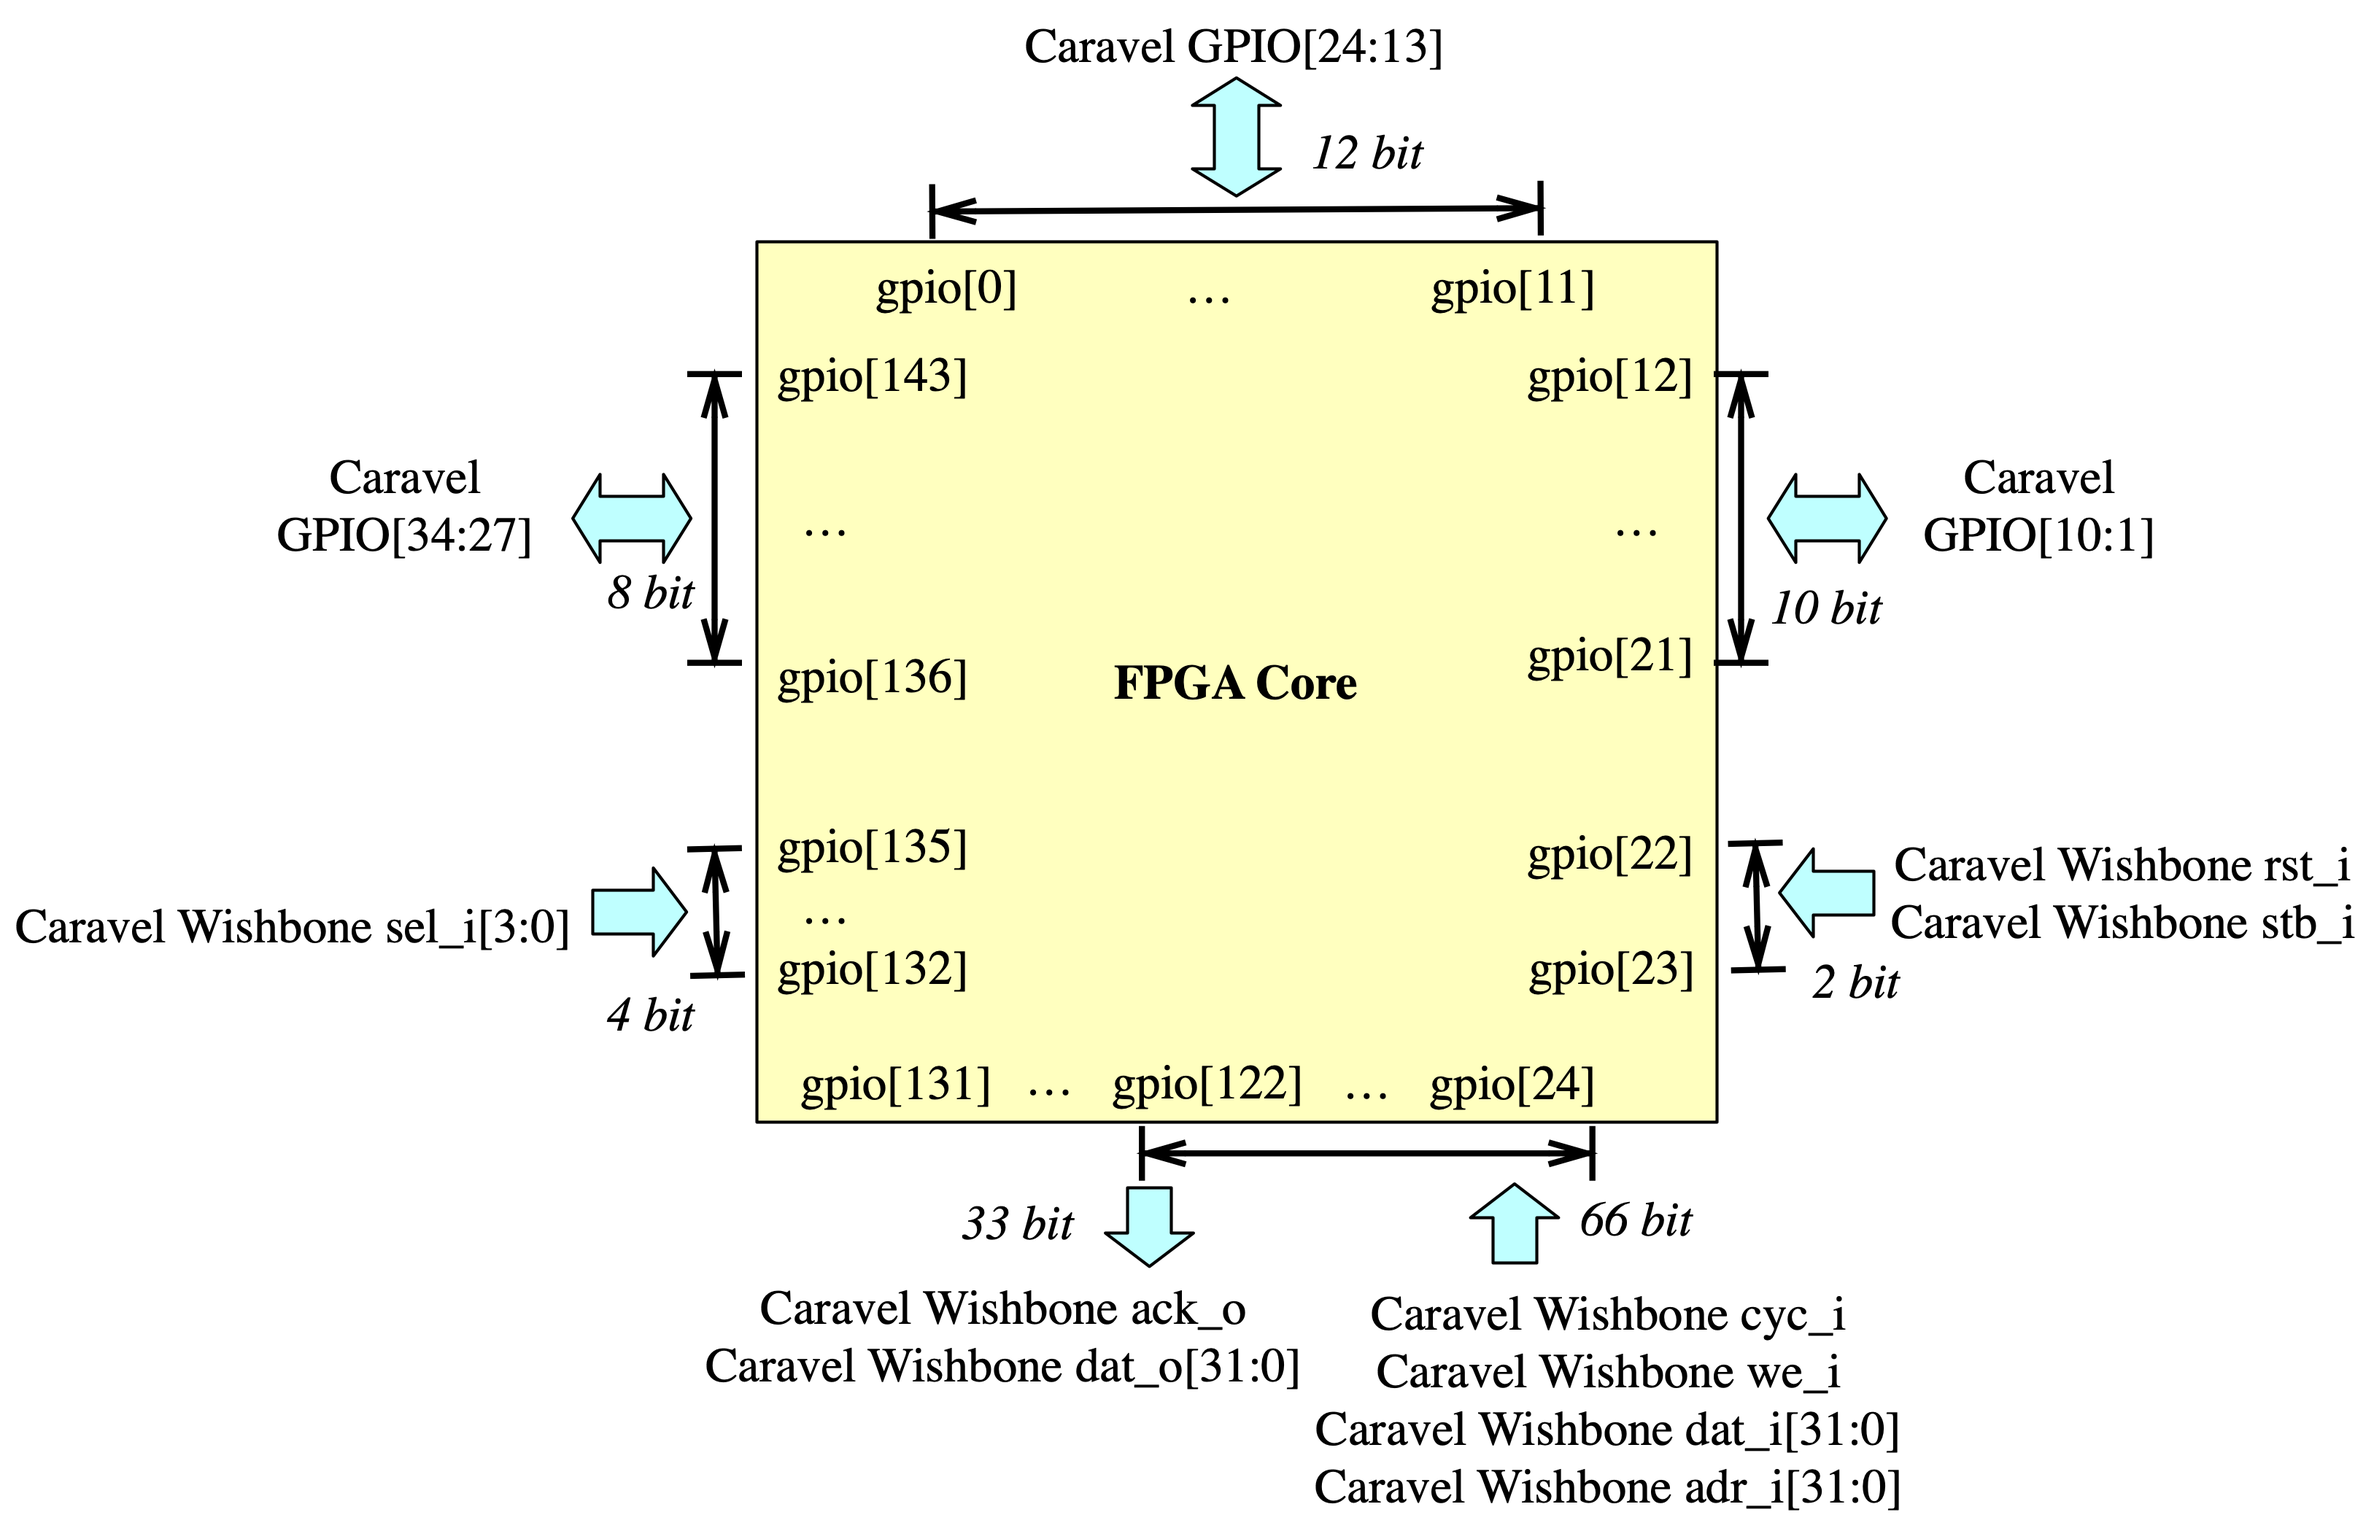
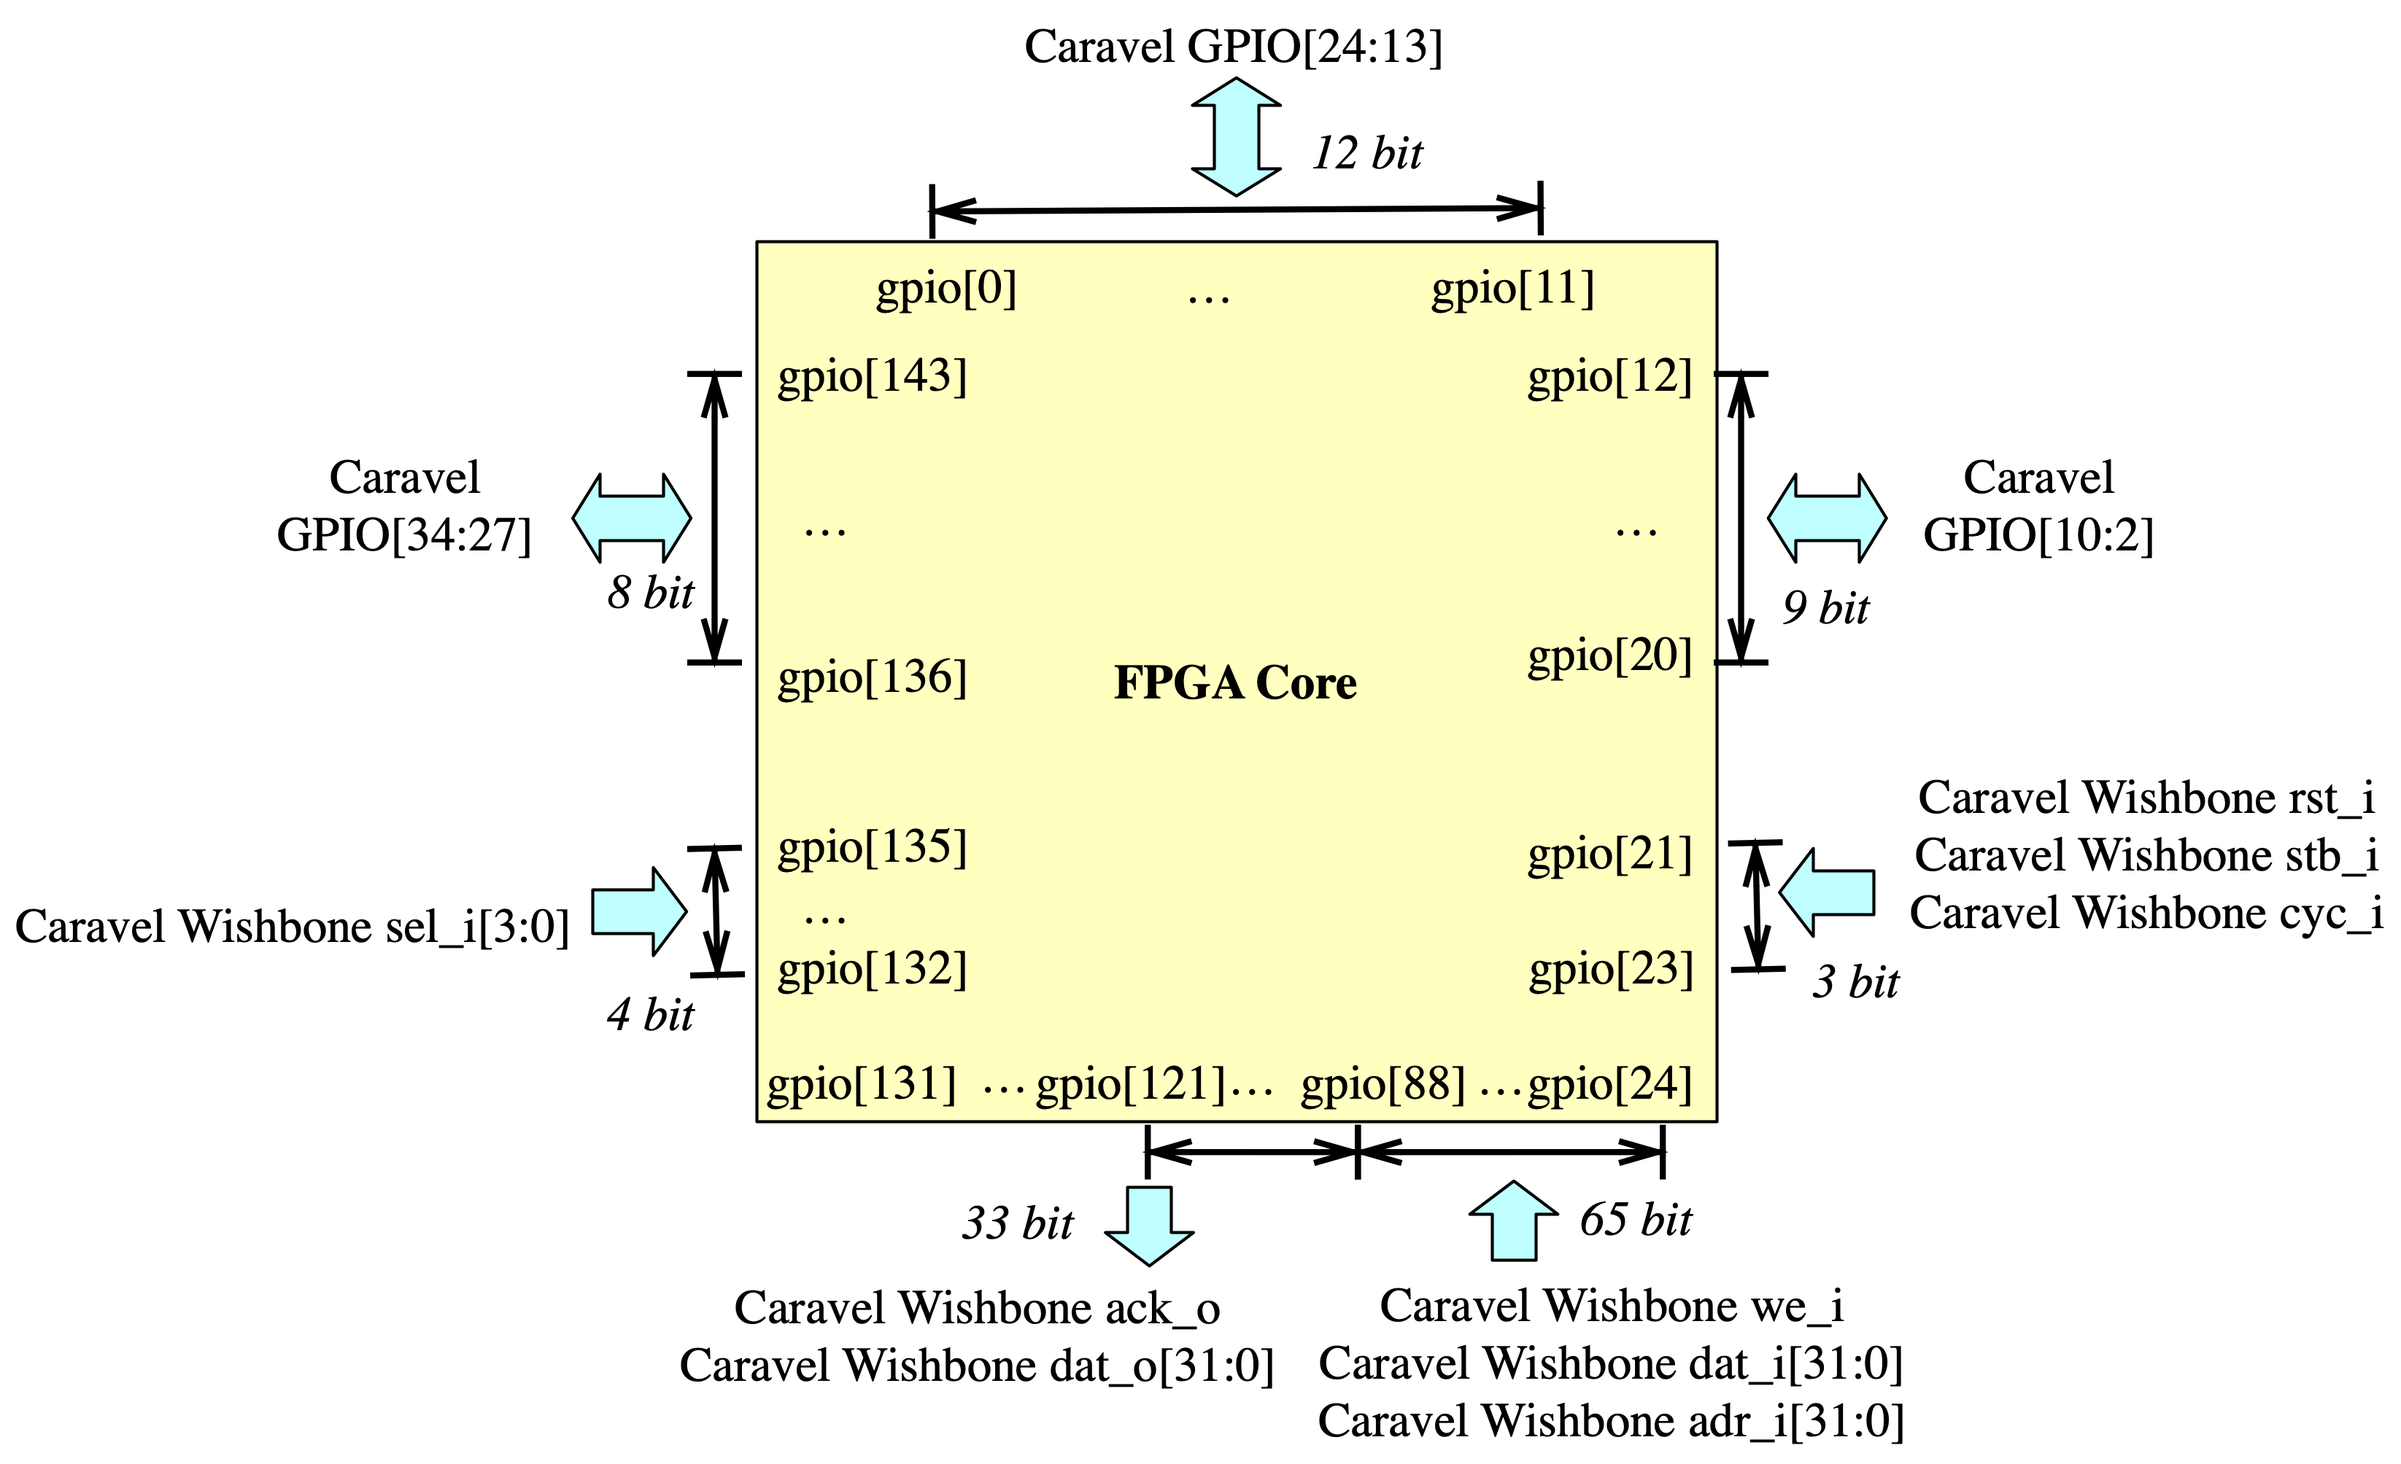
[Doc] Update I/O arrangement to be consistent with new arch

Changed region(s): [[0.0, 0.0, 0.9932, 0.988], [0.4656, 0.4323, 0.5897, 0.494]]

diff --git a/DOC/source/arch/io_resource.rst b/DOC/source/arch/io_resource.rst
@@ -12,11 +12,11 @@ The *High-Density* (HD) FPGA IP has 144 I/O pins as shown in :numref:`fig_fpga_i
 
 Among the 144 I/Os, 
 
-- **30 external I/Os** are accessible through the Caravel SoC's *General-Purpose I/Os* (GPIOs).
+- **29 external I/Os** are accessible through the Caravel SoC's *General-Purpose I/Os* (GPIOs).
 
-- **114 internal I/Os** are accessible through the Caravel SOC's logic analyzer and wishbone interfaces, which are controlled by the RISC-V processor. See :ref:`io_resource_debug` and :ref:`io_resource_accelerator` for details. 
+- **115 internal I/Os** are accessible through the Caravel SOC's logic analyzer and wishbone interfaces, which are controlled by the RISC-V processor. See :ref:`io_resource_debug` and :ref:`io_resource_accelerator` for details. 
 
-.. note:: The connectivity of the 114 internal I/Os can be switched through a GPIO of Caravel SoC. As a result, the FPGA can operate in different modes. 
+.. note:: The connectivity of the 115 internal I/Os can be switched through a GPIO of Caravel SoC. As a result, the FPGA can operate in different modes. 
 
 .. _fig_fpga_io_switch:
 
@@ -35,7 +35,7 @@ Accelerator Mode
 When the Wishbone interface is enabled, the FPGA can operate as an accelerator for the RISC-V processor.
 :numref:`fig_fpga_io_map_wishbone_mode` illustrates the detailed I/O arrangement for the FPGA, where the wishbone bus signals are connected to fixed FPGA I/O locations. 
 
-.. note:: Not all the 114 internal I/Os are used by the Wishbone interface. Especially, the I/O[122:131] are not connected.
+.. note:: Not all the 115 internal I/Os are used by the Wishbone interface. Especially, the I/O[122:131] are not connected.
 
 .. warning:: The FPGA does not contain a Wishbone slave IP. Users have to implement a soft Wishbone slave when use the FPGA as an accelerator.
 
@@ -55,7 +55,7 @@ Debug Mode
 When the logic analyzer interface is enabled, the FPGA can operate in debug mode, whose internal signals can be readback through the registers of the RISC-V processor.
 :numref:`fig_fpga_io_map_logic_analyzer_mode` illustrates the detailed I/O arrangement for the FPGA, where the logic analyzer signals are connected to fixed FPGA I/O locations. 
 
-.. note:: The logic analyzer is 128-bit, while 114 bits can drive or be driven by the FPGA I/O. The other 14 bits are connected to internal spots of the FPGA fabric, monitoring critical signal activities of the FPGA in debugging purpose.
+.. note:: The logic analyzer is 128-bit, while 115 bits can drive or be driven by the FPGA I/O. The other 14 bits are connected to internal spots of the FPGA fabric, monitoring critical signal activities of the FPGA in debugging purpose.
 
 .. _fig_fpga_io_map_logic_analyzer_mode:
 

diff --git a/DOC/source/device/dc_ac_character.rst b/DOC/source/device/dc_ac_character.rst
@@ -13,7 +13,7 @@ I/O usage and port information
   +-----------+------------------------------------------------------------------------+-------------+
   | I/O Type  | Description                                                            | No. of Pins |
   +===========+========================================================================+=============+
-  | Data I/O  | Datapath I/Os of FPGA fabric                                           | 30          |
+  | Data I/O  | Datapath I/Os of FPGA fabric                                           | 29          |
   +-----------+------------------------------------------------------------------------+-------------+
   | Clk       | Operating clock of FPGA core                                           | 1           |
   +-----------+------------------------------------------------------------------------+-------------+
@@ -28,6 +28,8 @@ I/O usage and port information
   | SCin      | Input of built-in scan-chain to load data to flip-flops of FPGA fabric | 1           |
   +-----------+------------------------------------------------------------------------+-------------+
   | SCout     | Output of built-in scan-chain to read back flip-flops from FPGA fabric | 1           |
+  +-----------+------------------------------------------------------------------------+-------------+
+  | IO_ISLO_N | Active-low signal to enable I/O datapath isolation from external ports | 1           |
   +-----------+------------------------------------------------------------------------+-------------+
   | Total     |                                                                        | 37          |
   +-----------+------------------------------------------------------------------------+-------------+
